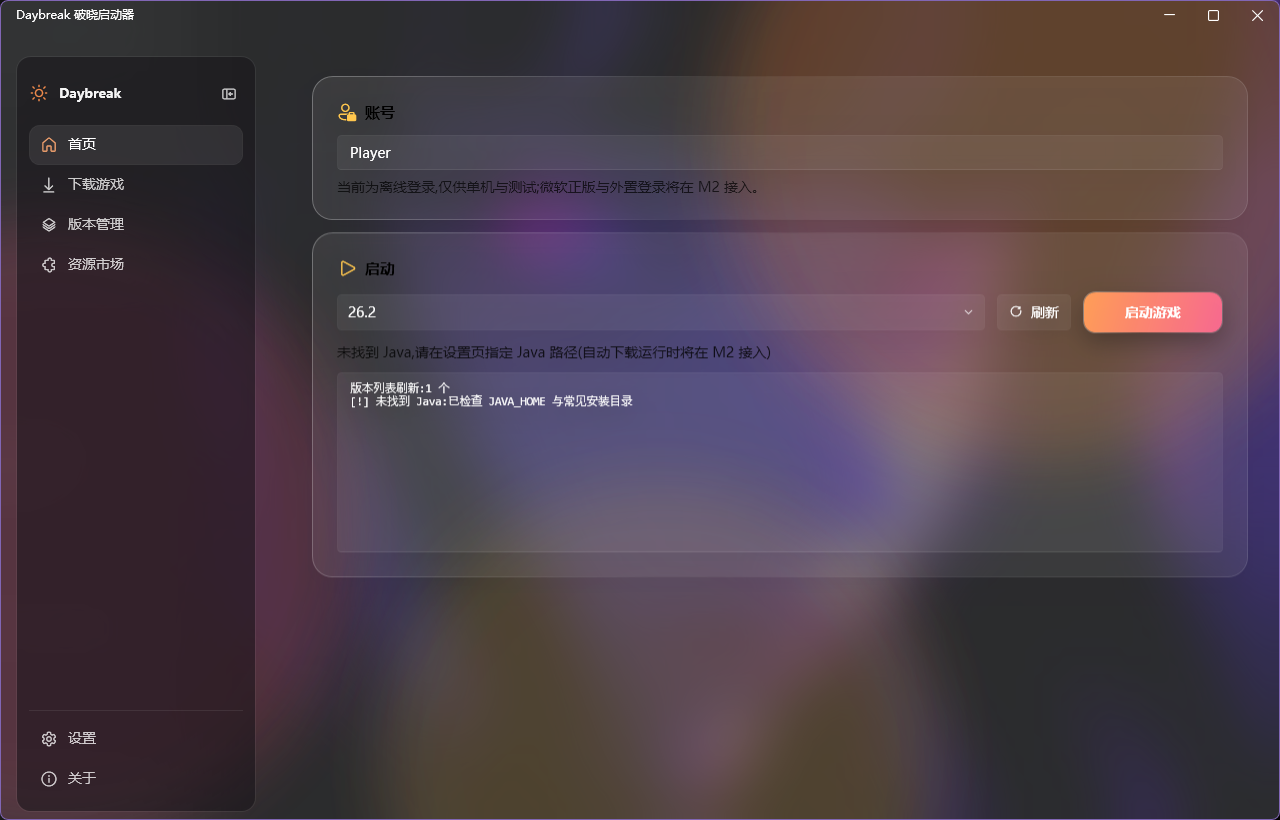
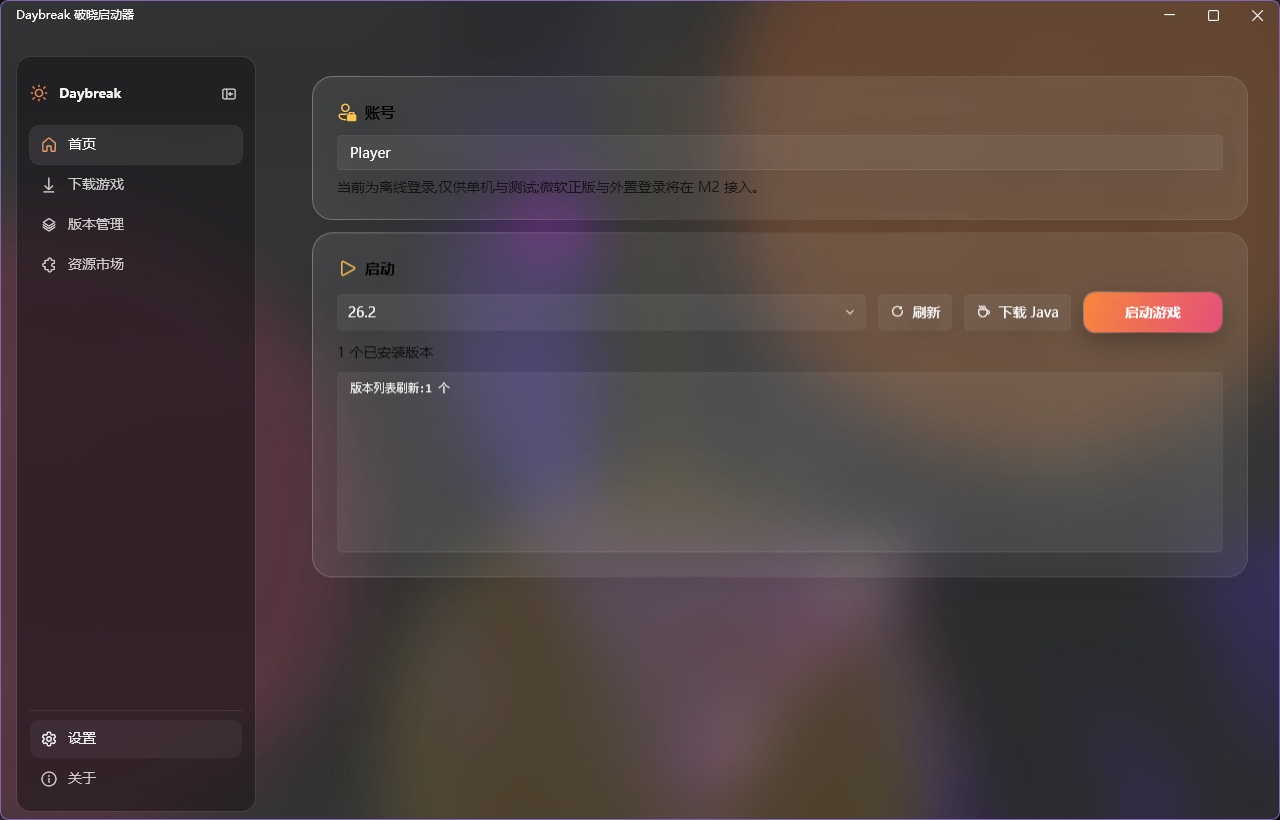
功能:首页「下载 Java」按钮 —— 按所选版本自动匹配官方运行时
- MojangJavaInstaller:piston-meta java-runtime 清单 → windows-x64 → 组件 → 逐文件下载 + SHA1 校验,
  支持镜像改写;已安装直接复用;大文件 15 分钟独立超时(默认 100s 在慢网络下会中断)
- 组件解析:优先版本 JSON 的 component 字段,回退大版本映射(8→jre-legacy,17→gamma,21→delta,25→epsilon),
  未知默认 Java 21(delta)
- 首页「下载 Java」按钮(咖啡图标):下载后写入配置 JavaDirectory,启动链路立即可用;
  与启动/下载共用忙状态与进度条
- 集成测试实测:jre-legacy 192 文件全部下载 + SHA1 通过,java -version 输出 1.8.0_51

Changed region(s): [[0.2812, 0.1524, 1.0, 0.6707], [0.2812, 0.6707, 0.3438, 0.7927], [0.0312, 0.8841, 0.0625, 0.9146]]

diff --git a/Daybreak.Launcher/Views/Pages/HomePage.xaml b/Daybreak.Launcher/Views/Pages/HomePage.xaml
@@ -44,6 +44,7 @@
                             <ColumnDefinition Width="*" />
                             <ColumnDefinition Width="Auto" />
                             <ColumnDefinition Width="Auto" />
+                            <ColumnDefinition Width="Auto" />
                         </Grid.ColumnDefinitions>
                         <ComboBox
                             ItemsSource="{Binding InstalledVersions}"
@@ -56,8 +57,16 @@
                             Content="刷新"
                             Margin="12,0,0,0"
                             MinHeight="36" />
-                        <Button
+                        <ui:Button
                             Grid.Column="2"
+                            Command="{Binding DownloadJavaCommand}"
+                            Icon="{ui:SymbolIcon DrinkCoffee24}"
+                            Content="下载 Java"
+                            ToolTip="自动下载与所选版本匹配的官方 Java 运行时"
+                            Margin="12,0,0,0"
+                            MinHeight="36" />
+                        <Button
+                            Grid.Column="3"
                             Command="{Binding LaunchCommand}"
                             Content="启动游戏"
                             Style="{StaticResource BrandPrimaryButton}"

diff --git a/Daybreak.Core/Game/MojangJavaInstaller.cs b/Daybreak.Core/Game/MojangJavaInstaller.cs
@@ -1,0 +1,187 @@
+using System.IO;
+using System.Security.Cryptography;
+using System.Text.Json;
+
+namespace Daybreak.Core.Game;
+
+/// <summary>
+/// 微软官方 java-runtime 安装器:piston-meta 清单 → 组件 → 逐文件下载。
+/// 支持 BMCLAPI 镜像改写;清单/文件均在可改写的 piston 域名上。
+/// </summary>
+public class MojangJavaInstaller
+{
+    private const string JavaManifestUrl =
+        "https://launchermeta.mojang.com/v1/products/java-runtime/2ec0cc96c44e5a76b9c8b7c39df7210883d12871/all.json";
+
+    /// <summary>游戏要求的 Java 大版本 → 运行时组件。</summary>
+    private static readonly IReadOnlyDictionary<int, string> ComponentByMajor = new Dictionary<int, string>
+    {
+        [8] = "jre-legacy",
+        [17] = "java-runtime-gamma",
+        [21] = "java-runtime-delta",
+        [25] = "java-runtime-epsilon",
+    };
+
+    public const string DefaultComponent = "java-runtime-delta"; // Java 21,覆盖 1.18+ 主流版本
+
+    public MojangJavaInstaller(string mirror) => _mirror = mirror;
+
+    private readonly string _mirror;
+
+    /// <summary>按游戏 Java 大版本选组件;未知一律 Java 21。</summary>
+    public static string ResolveComponent(int? gameJavaMajor) => gameJavaMajor switch
+    {
+        null or <= 0 => DefaultComponent,
+        <= 8 => ComponentByMajor[8],
+        <= 17 => ComponentByMajor[17],
+        <= 21 => ComponentByMajor[21],
+        _ => ComponentByMajor[25],
+    };
+
+    /// <summary>
+    /// 安装指定组件到 installRoot 下,返回运行时根目录(其 bin/java.exe 可直接使用)。
+    /// 已存在时直接返回,不重复下载。
+    /// </summary>
+    public async Task<string> InstallAsync(
+        string installRoot, string component, IProgress<LaunchProgress>? progress)
+    {
+        var runtimeDir = Path.Combine(installRoot, component);
+        if (File.Exists(Path.Combine(runtimeDir, "bin", "java.exe")))
+        {
+            progress?.Report(new LaunchProgress { ProgressedTasks = 1, TotalTasks = 1, CurrentFile = "已安装" });
+            return runtimeDir;
+        }
+
+        using var http = new HttpClient(new MirrorHttpHandler(_mirror));
+
+        var manifestUrl = await ResolveManifestUrlAsync(http, component)
+            ?? throw new InvalidOperationException($"清单中找不到组件 {component}(windows-x64)");
+
+        var (files, totalBytes) = await LoadFileListAsync(http, manifestUrl);
+
+        long doneBytes = 0;
+        var doneFiles = 0;
+        var reportLock = new object();
+
+        foreach (var (relativePath, url, size, sha1, executable) in files)
+        {
+            var targetPath = Path.Combine(runtimeDir, relativePath.Replace('/', Path.DirectorySeparatorChar));
+            Directory.CreateDirectory(Path.GetDirectoryName(targetPath)!);
+
+            if (!File.Exists(targetPath) || new FileInfo(targetPath).Length != size)
+                await DownloadFileAsync(http, url, targetPath);
+
+            VerifySha1(targetPath, sha1, relativePath);
+
+            lock (reportLock)
+            {
+                doneBytes += size;
+                doneFiles++;
+                progress?.Report(new LaunchProgress
+                {
+                    CurrentFile = relativePath,
+                    ProgressedTasks = doneFiles,
+                    TotalTasks = files.Count,
+                    ProgressedBytes = doneBytes,
+                    TotalBytes = totalBytes,
+                });
+            }
+        }
+
+        return runtimeDir;
+    }
+
+    private static async Task<string?> ResolveManifestUrlAsync(HttpClient http, string component)
+    {
+        using var document = await ParseJsonAsync(http, JavaManifestUrl);
+        var root = document.RootElement;
+
+        if (!root.TryGetProperty("windows-x64", out var platform))
+            return null;
+
+        // 组件值可能是单个对象或对象数组,统一取第一个含 manifest.url 的条目
+        JsonElement entry = default;
+        if (platform.TryGetProperty(component, out var componentValue))
+        {
+            entry = componentValue.ValueKind == JsonValueKind.Array
+                ? (componentValue.GetArrayLength() > 0 ? componentValue[0] : default)
+                : componentValue;
+        }
+
+        if (entry.ValueKind == JsonValueKind.Object &&
+            entry.TryGetProperty("manifest", out var manifest) &&
+            manifest.TryGetProperty("url", out var url))
+        {
+            return url.GetString();
+        }
+
+        return null;
+    }
+
+    private static async Task<(List<(string Path, string Url, long Size, string? Sha1, bool Executable)> Files, long TotalBytes)>
+        LoadFileListAsync(HttpClient http, string manifestUrl)
+    {
+        using var document = await ParseJsonAsync(http, manifestUrl);
+        var files = document.RootElement.GetProperty("files");
+
+        var result = new List<(string, string, long, string?, bool)>();
+        long totalBytes = 0;
+
+        foreach (var entry in files.EnumerateObject())
+        {
+            if (entry.Value.ValueKind != JsonValueKind.Object ||
+                !entry.Value.TryGetProperty("type", out var type) ||
+                type.GetString() != "file")
+                continue;
+
+            var downloads = entry.Value.GetProperty("downloads");
+            var raw = downloads.GetProperty("raw");
+            var url = raw.GetProperty("url").GetString()
+                ?? throw new InvalidOperationException($"文件 {entry.Name} 缺少下载地址");
+
+            var size = raw.TryGetProperty("size", out var sizeElement) ? sizeElement.GetInt64() : 0;
+            var sha1 = raw.TryGetProperty("sha1", out var sha1Element) ? sha1Element.GetString() : null;
+            var executable = entry.Value.TryGetProperty("executable", out var execElement) && execElement.ValueKind == JsonValueKind.True;
+
+            result.Add((entry.Name, url, size, sha1, executable));
+            totalBytes += size;
+        }
+
+        // 小文件在前,进度条前期走得快,体验更好
+        result.Sort((a, b) => a.Item3.CompareTo(b.Item3));
+        return (result, totalBytes);
+    }
+
+    private static async Task<JsonDocument> ParseJsonAsync(HttpClient http, string url)
+    {
+        var bytes = await http.GetByteArrayAsync(url);
+        // piston-meta 响应带 UTF-8 BOM,JsonDocument 不接受,手动剥掉
+        if (bytes.Length >= 3 && bytes[0] == 0xEF && bytes[1] == 0xBB && bytes[2] == 0xBF)
+            bytes = bytes[3..];
+        return JsonDocument.Parse(bytes);
+    }
+
+    private static async Task DownloadFileAsync(HttpClient http, string url, string targetPath)
+    {
+        // 大文件(几十 MB)在国内网络可能超过 HttpClient 默认 100s,单独放宽
+        using var timeoutCts = new CancellationTokenSource(TimeSpan.FromMinutes(15));
+        using var response = await http.GetAsync(
+            url, HttpCompletionOption.ResponseHeadersRead, timeoutCts.Token);
+        response.EnsureSuccessStatusCode();
+
+        await using var source = await response.Content.ReadAsStreamAsync(timeoutCts.Token);
+        await using var target = new FileStream(targetPath, FileMode.Create, FileAccess.Write, FileShare.None, 1 << 20);
+        await source.CopyToAsync(target, 1 << 20, timeoutCts.Token);
+    }
+
+    private static void VerifySha1(string filePath, string? expected, string name)
+    {
+        if (string.IsNullOrEmpty(expected))
+            return;
+
+        using var stream = File.OpenRead(filePath);
+        var actual = Convert.ToHexStringLower(SHA1.HashData(stream));
+        if (actual != expected)
+            throw new InvalidOperationException($"SHA1 校验失败:{name}");
+    }
+}

diff --git a/Daybreak.Launcher/ViewModels/HomeViewModel.cs b/Daybreak.Launcher/ViewModels/HomeViewModel.cs
@@ -1,5 +1,6 @@
 using System.Collections.ObjectModel;
 using System.Diagnostics;
+using System.IO;
 using System.Text;
 using CommunityToolkit.Mvvm.ComponentModel;
 using CommunityToolkit.Mvvm.Input;
@@ -53,7 +54,12 @@ public partial class HomeViewModel : ObservableObject
         _config.Save();
     }
 
-    partial void OnIsBusyChanged(bool value) => LaunchCommand.NotifyCanExecuteChanged();
+    partial void OnIsBusyChanged(bool value)
+    {
+        LaunchCommand.NotifyCanExecuteChanged();
+        DownloadJavaCommand.NotifyCanExecuteChanged();
+    }
+
     partial void OnSelectedVersionChanged(string? value) => LaunchCommand.NotifyCanExecuteChanged();
 
     private LaunchService GetService() =>
@@ -83,6 +89,58 @@ public partial class HomeViewModel : ObservableObject
     }
 
     private bool CanLaunch() => !IsBusy && SelectedVersion is not null;
+
+    private bool CanDownloadJava() => !IsBusy;
+
+    [RelayCommand(CanExecute = nameof(CanDownloadJava))]
+    private async Task DownloadJavaAsync()
+    {
+        if (SelectedVersion is null)
+        {
+            StatusText = "请先在版本列表中选择一个版本,将按该版本自动匹配合适的 Java";
+            return;
+        }
+
+        IsBusy = true;
+        ProgressPercent = 0;
+        Log("—— 开始获取 Java 运行时 ——");
+
+        IProgress<LaunchProgress> uiProgress = new Progress<LaunchProgress>(p =>
+        {
+            if (p.TotalTasks > 0)
+                ProgressPercent = Math.Max(ProgressPercent, p.Percent);
+            if (!string.IsNullOrEmpty(p.CurrentFile))
+                Log($"  下载 {p.CurrentFile}");
+        });
+
+        try
+        {
+            // 先问版本 JSON 要组件名,拿不到再按大版本兜底
+            var component = await GetService().GetJavaComponentAsync(SelectedVersion);
+            Log($"  目标运行时:{component ?? MojangJavaInstaller.DefaultComponent}(默认 Java 21)");
+
+            var installRoot = Path.Combine(
+                Environment.GetFolderPath(Environment.SpecialFolder.ApplicationData), "Daybreak", "runtime");
+            var runtimeDir = await new MojangJavaInstaller(_config.Mirror)
+                .InstallAsync(installRoot, component ?? MojangJavaInstaller.DefaultComponent, uiProgress);
+
+            _config.JavaDirectory = runtimeDir;
+            _config.Save();
+
+            StatusText = $"Java 运行时就绪:{runtimeDir}";
+            ProgressPercent = 100;
+            Log($"[✓] Java 已安装到 {runtimeDir},可以启动游戏了");
+        }
+        catch (Exception ex)
+        {
+            StatusText = "Java 下载失败:" + ex.Message;
+            Log($"[!] Java 下载失败:{ex}");
+        }
+        finally
+        {
+            IsBusy = false;
+        }
+    }
 
     [RelayCommand(CanExecute = nameof(CanLaunch))]
     private async Task LaunchAsync()

diff --git a/Daybreak.Core.Tests/M1IntegrationTests.cs b/Daybreak.Core.Tests/M1IntegrationTests.cs
@@ -49,4 +49,39 @@ public class M1IntegrationTests
             try { Directory.Delete(tempDir, recursive: true); } catch { /* 清理失败不影响断言 */ }
         }
     }
+
+    [Fact]
+    public async Task InstallJavaRuntime_CompletesIntoTempDir()
+    {
+        var tempDir = Path.Combine(Path.GetTempPath(), "daybreak-java-test", Guid.NewGuid().ToString("N"));
+        var installer = new MojangJavaInstaller(DownloadMirror.Official);
+        var progress = new Progress<LaunchProgress>(p =>
+            _output.WriteLine($"  Java {p.Percent}% ({p.ProgressedTasks}/{p.TotalTasks}) {p.CurrentFile}"));
+
+        try
+        {
+            // jre-legacy(Java 8)是官方清单里最小的运行时
+            var runtimeDir = await installer.InstallAsync(tempDir, "jre-legacy", progress);
+
+            var javaExe = Path.Combine(runtimeDir, "bin", "java.exe");
+            Assert.True(File.Exists(javaExe), "bin/java.exe 不存在");
+
+            var proc = System.Diagnostics.Process.Start(new System.Diagnostics.ProcessStartInfo
+            {
+                FileName = javaExe,
+                Arguments = "-version",
+                RedirectStandardError = true,
+                RedirectStandardOutput = true,
+                UseShellExecute = false,
+            })!;
+            var output = await proc.StandardError.ReadToEndAsync();
+            proc.WaitForExit(30_000);
+            _output.WriteLine($"java -version => {output.Trim()}");
+            Assert.Contains("1.8", output);
+        }
+        finally
+        {
+            try { Directory.Delete(tempDir, recursive: true); } catch { /* 清理失败不影响断言 */ }
+        }
+    }
 }

diff --git a/Daybreak.Core/Game/LaunchService.cs b/Daybreak.Core/Game/LaunchService.cs
@@ -2,6 +2,7 @@ using System.Diagnostics;
 using CmlLib.Core;
 using CmlLib.Core.Auth;
 using CmlLib.Core.ProcessBuilder;
+using CmlLib.Core.Version;
 using CmlLib.Core.VersionMetadata;
 
 namespace Daybreak.Core.Game;
@@ -54,6 +55,23 @@ public class LaunchService
         var gamePath = new MinecraftPath(ResolveGameDirectory());
         var parameters = MinecraftLauncherParameters.CreateDefault(gamePath, http);
         return new MinecraftLauncher(parameters);
+    }
+
+    /// <summary>解析版本 JSON 里的 Java 运行时组件名(优先 component 字段,缺省按大版本映射)。</summary>
+    public async Task<string?> GetJavaComponentAsync(string versionId)
+    {
+        var launcher = CreateLauncher();
+        var version = await launcher.GetVersionAsync(versionId);
+        var javaVersion = version.GetInheritedProperty(v => v.JavaVersion);
+        if (javaVersion is null)
+            return null;
+
+        if (!string.IsNullOrEmpty(javaVersion.Component))
+            return javaVersion.Component;
+
+        return int.TryParse(javaVersion.MajorVersion, out var major)
+            ? MojangJavaInstaller.ResolveComponent(major)
+            : null;
     }
 
     /// <summary>官方清单全部版本(含快照与历史版本),清单自带最新在前。</summary>
